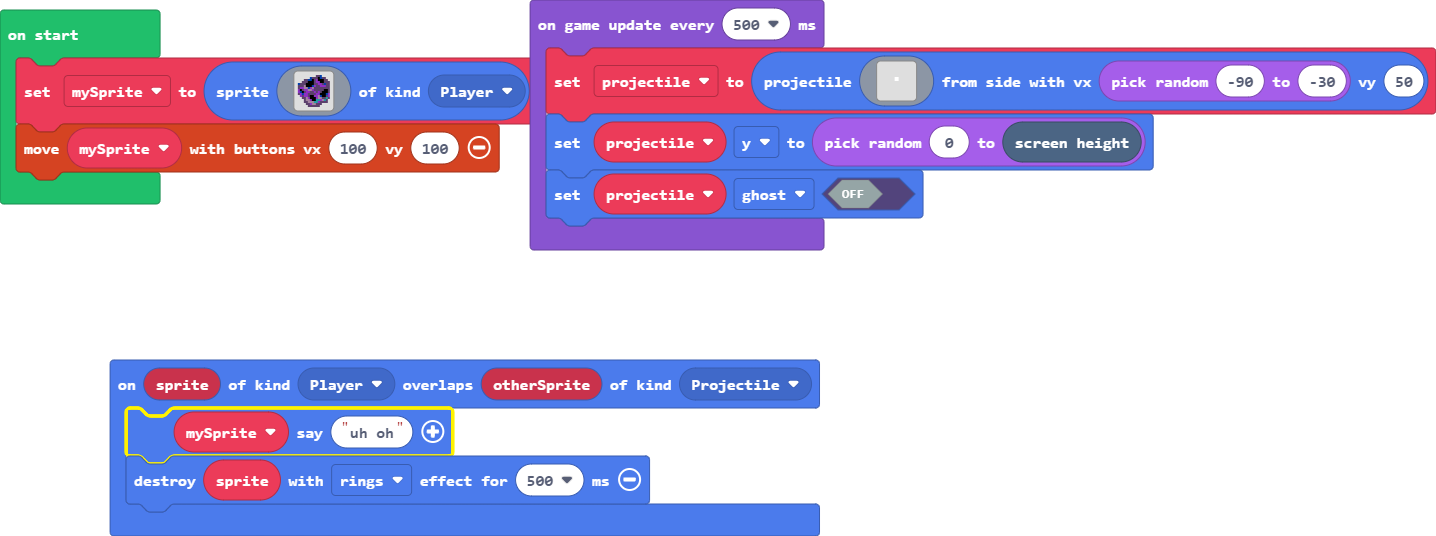
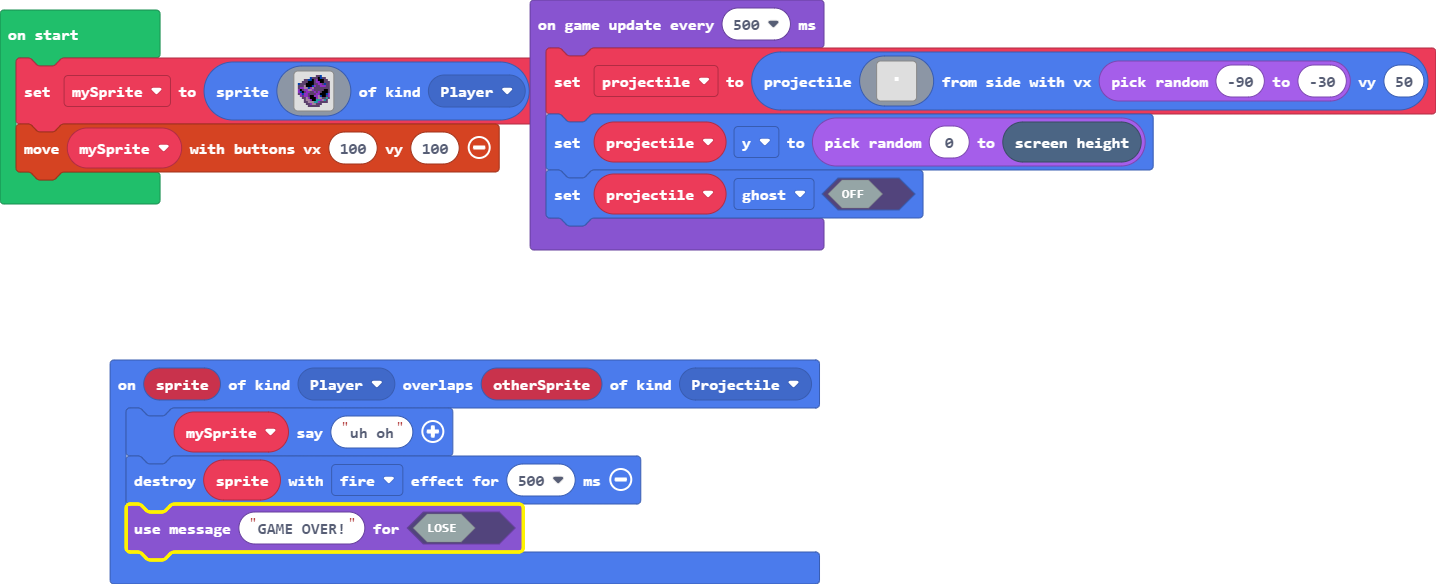
Update main.blocks, main.ts

Changed region(s): [[0.0, 0.0, 1.0, 0.4776], [0.0613, 0.597, 0.5822, 0.9851]]

diff --git a/main.ts b/main.ts
@@ -1,6 +1,7 @@
 sprites.onOverlap(SpriteKind.Player, SpriteKind.Projectile, function (sprite, otherSprite) {
     mySprite.sayText("uh oh")
-    sprites.destroy(sprite, effects.rings, 500)
+    sprites.destroy(sprite, effects.fire, 500)
+    game.setGameOverMessage(false, "GAME OVER!")
 })
 let projectile: Sprite = null
 let mySprite: Sprite = null
